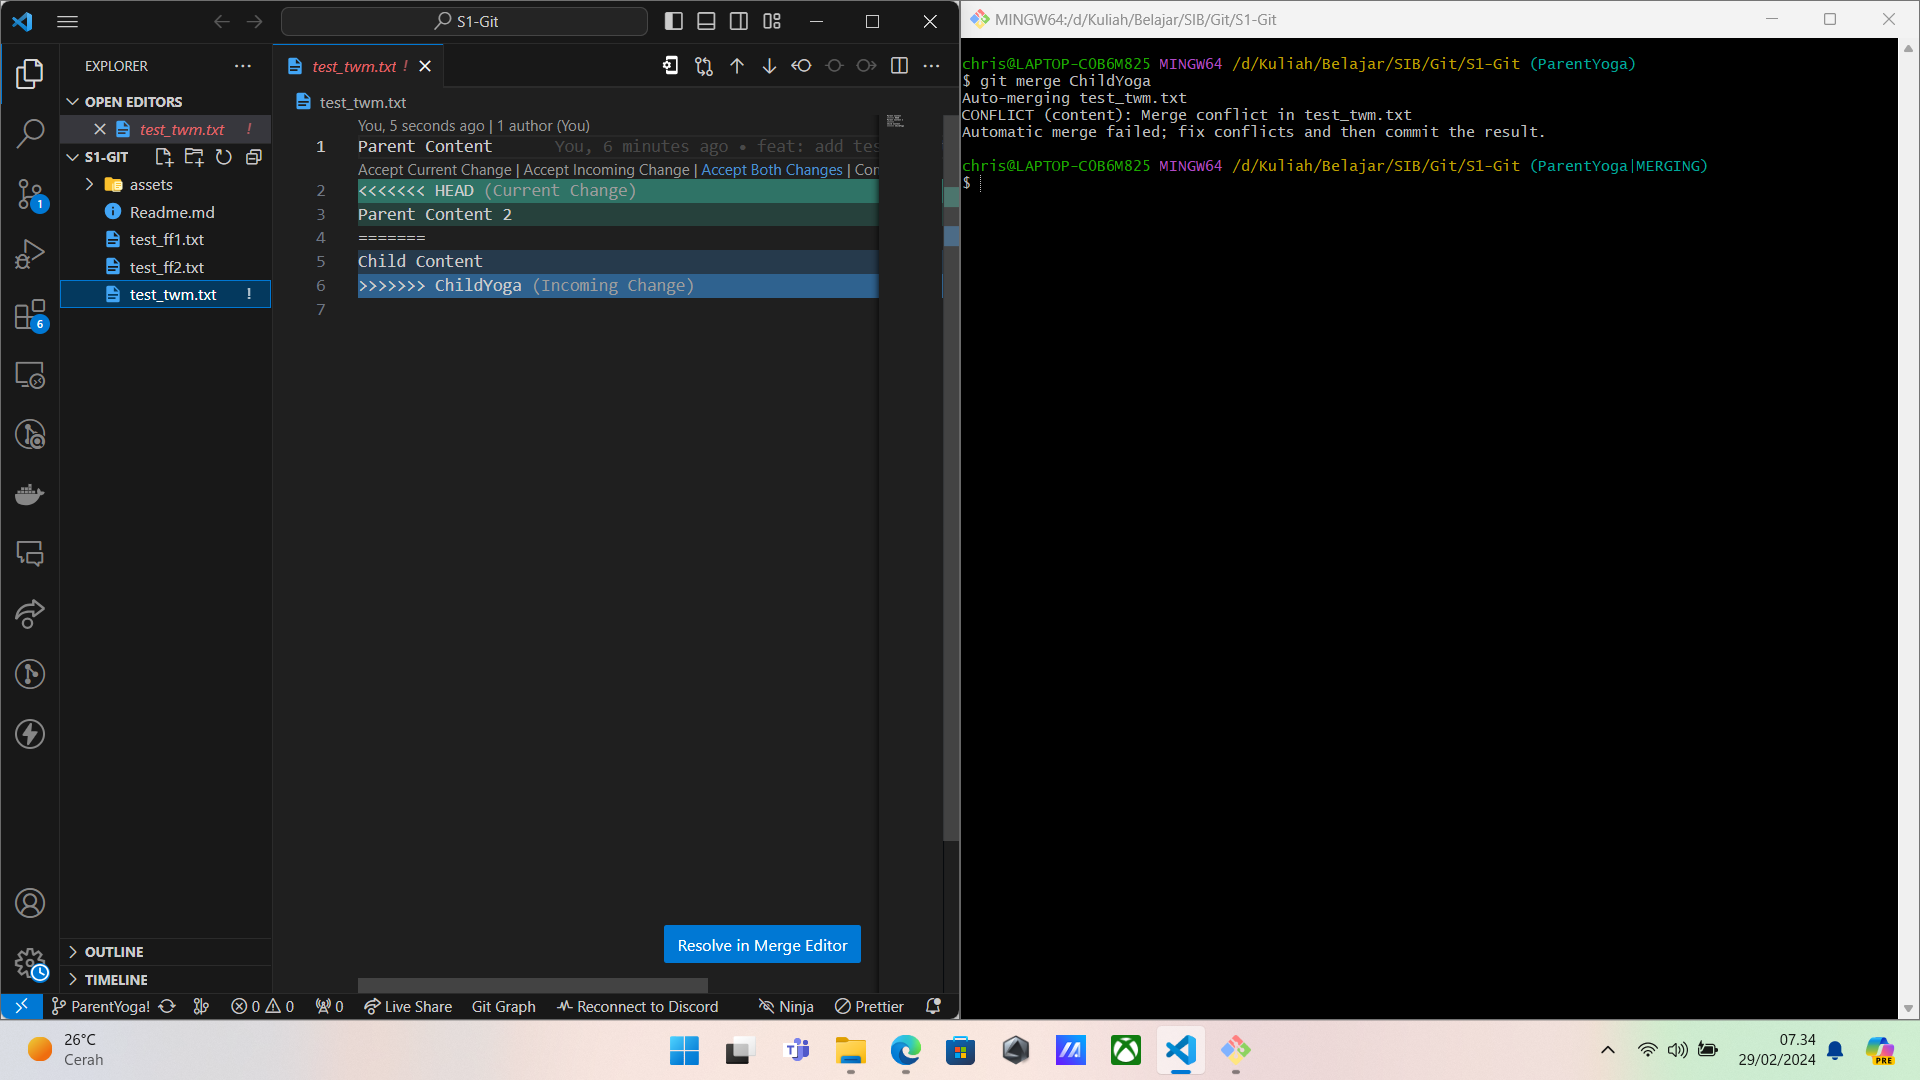
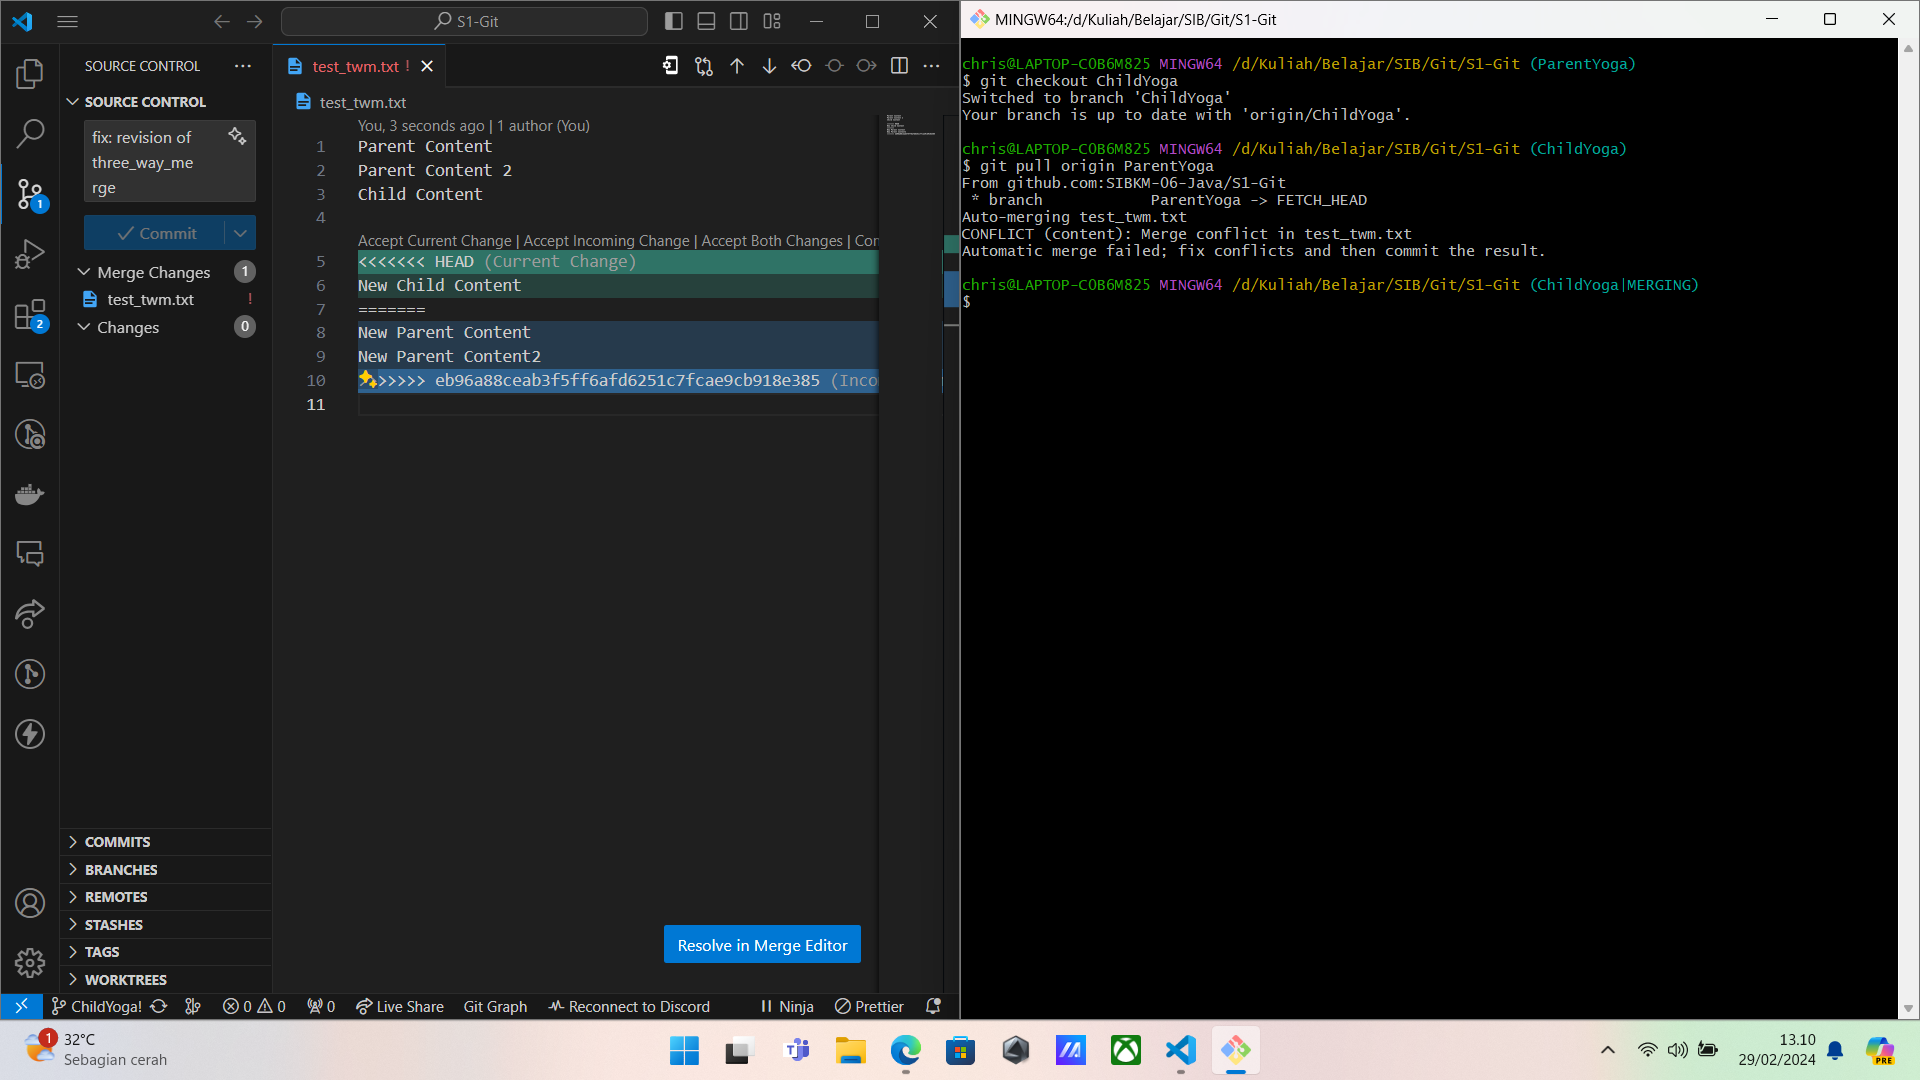
fix: revision of three_way_merge note

diff --git a/Readme.md b/Readme.md
@@ -130,25 +130,24 @@ git pull origin <parentbranch>
 <img src="assets/three_way_merge/3.png" />
 <img src="assets/three_way_merge/4.png" />
 
-##### 3. Simulasikan Conflict Di Parent dan Child Ketika Merge
+##### 3. Simulasikan Conflict Di Child Branch Terhadap Parent Branch
 
-Pindah ke Parent Branch dan tidak melakukan merge dulu dari Child tetapi membuat content baru yang tidak dimiliki oleh child. Lalu push ke Github
+Setelah melakukan perubahan teks pada Child Branch, kembali lagi ke Parent Branch dan buat perubahan tetapi jangan melakukan merge dan Child agar ketika data terbaru dari Parent akan dipull ke Child, terjadi conflict.
 
 <img src="assets/three_way_merge/5.png" />
 
-Setelah itu lakukan merge biasa dari Child ke Parent yang akhirnya muncul notifikasi konflik
+Lalu, pindah ke Child Branch dan melakukan pull terhadap Parent
 
-<img src="assets/three_way_merge/6.png"/>
+<img src="assets/three_way_merge/6.png" />
 
-Klik `Accept Both Changes` lalu `Resolve in Merge Editor` dan `Complete` untuk menyelesaikan Conflict
+Disini, silahkan melakukan resolve merge dan complete jika sudah finish lalu commit merge lalu push ke github
 
-##### 4. Buat Pull Request di Github
+<img src="assets/three_way_merge/7.png" />
+<img src="assets/three_way_merge/8.png" />
 
-Pull Request dari Child ke Parent
-<img src="assets/three_way_merge/7.png"/>
+##### 4. Open Pull Request
 
-##### 5. Konfirmasi Merge di Pull Request
+Setelah itu, masuk ke github dan open PR baru lalu mengkoneksikan branch mana yang akan dicompare seperti Child ke Parent. Jangan lupa assign mentor sebagai reviewer dan akun kita sebagai assignees. Dalam dunia industri, yang boleh untuk melakukan merge hanya reviewer saja bukan assignees
 
-Jangan lupa menambahkan assignees dan reviewer di Pull Request
-
-<img src="assets/three_way_merge/8.png"/>
+<img src="assets/three_way_merge/9.png" />
+<img src="assets/three_way_merge/10.png" />
